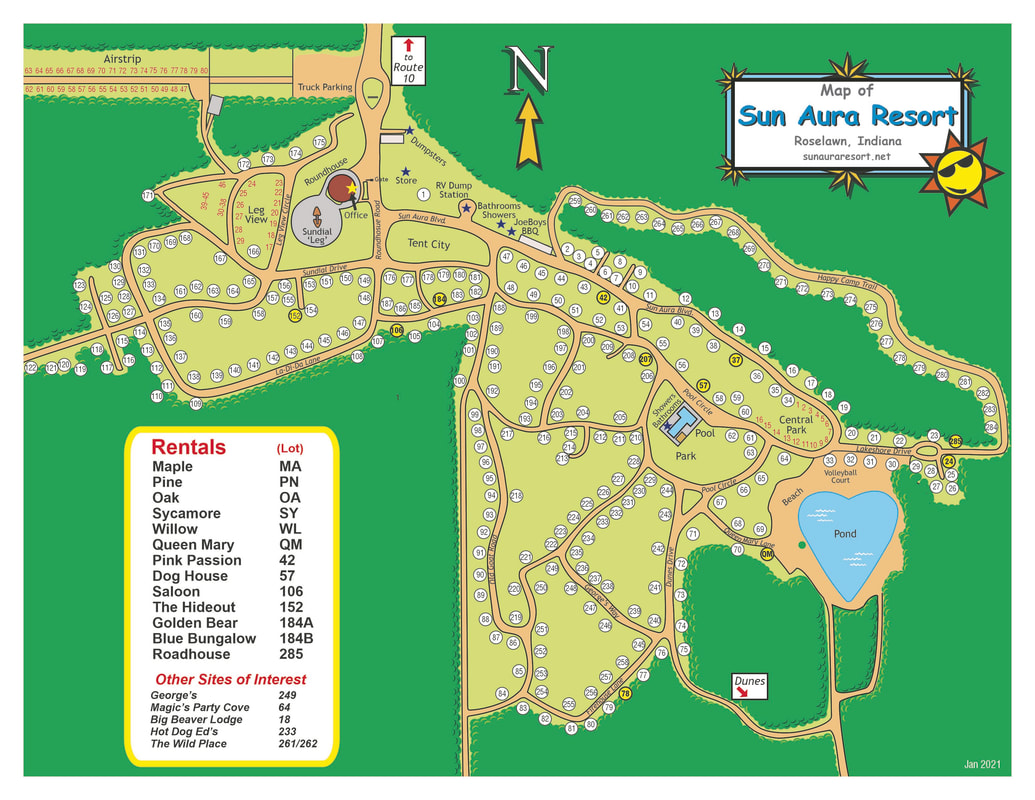
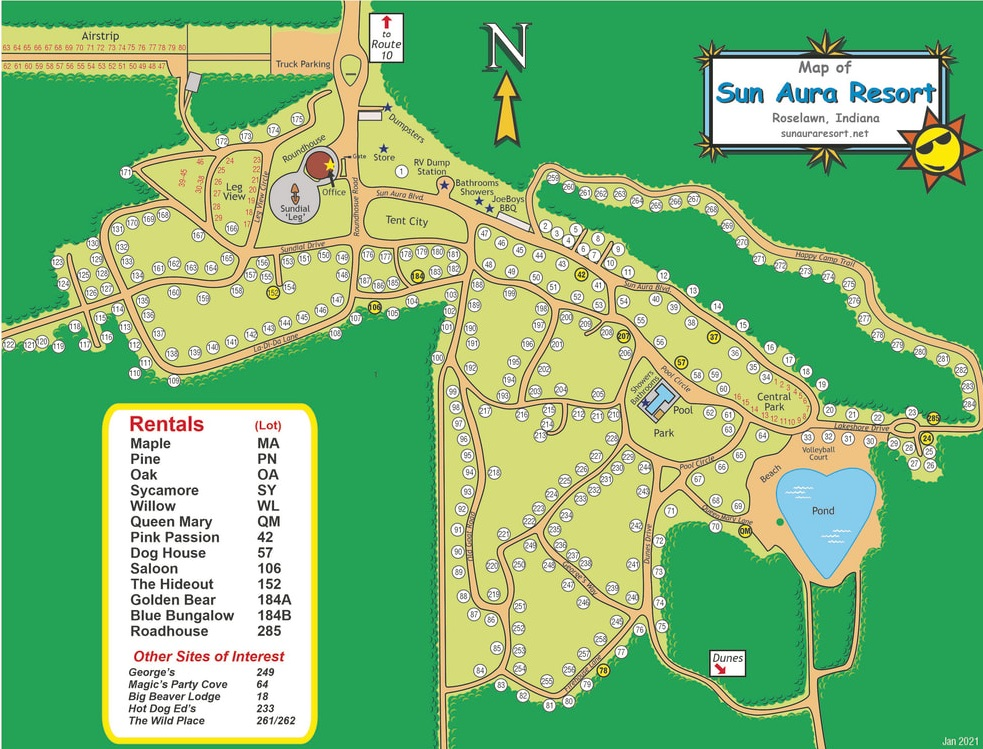
fix(style): adjust alignment of main title in admin page

diff --git a/components/admin/AdminSidebar.tsx b/components/admin/AdminSidebar.tsx
@@ -16,7 +16,6 @@ import {
   Users,
   type LucideIcon,
 } from 'lucide-react';
-import Image from 'next/image';
 import Link from 'next/link';
 import { usePathname } from 'next/navigation';
 
@@ -69,17 +68,7 @@ export function AdminSidebar() {
   return (
     <>
       <aside className="fixed inset-y-0 left-0 z-40 hidden w-64 flex-col overflow-y-auto overscroll-contain bg-admin-sidebar px-4 py-6 text-white lg:flex">
-        <Link href="/admin" className="mb-7 flex flex-col items-center gap-3">
-          <Image
-            src="/images/logo-enhanced.png"
-            alt="Sun Aura Resort"
-            width={86}
-            height={86}
-            priority
-            className="h-20 w-auto object-contain"
-          />
-          <span className="font-serif text-lg tracking-wide">SUN AURA ADMIN</span>
-        </Link>
+          <span className="font-serif text-lg tracking-wide text-center">SUN AURA ADMIN</span>
         <nav aria-label="Admin navigation" className="space-y-1.5">
           <NavigationLinks pathname={pathname} />
         </nav>
@@ -87,7 +76,7 @@ export function AdminSidebar() {
 
       <details className="group sticky top-0 z-50 max-h-screen overflow-y-auto bg-admin-sidebar text-white lg:hidden">
         <summary className="flex cursor-pointer list-none items-center justify-between px-5 py-4">
-          <span className="font-serif text-lg tracking-wide">Sun Aura Admin</span>
+          <span className="font-serif text-lg tracking-wide text-center">Sun Aura Admin</span>
           <Menu aria-hidden="true" className="size-6" />
         </summary>
         <nav
